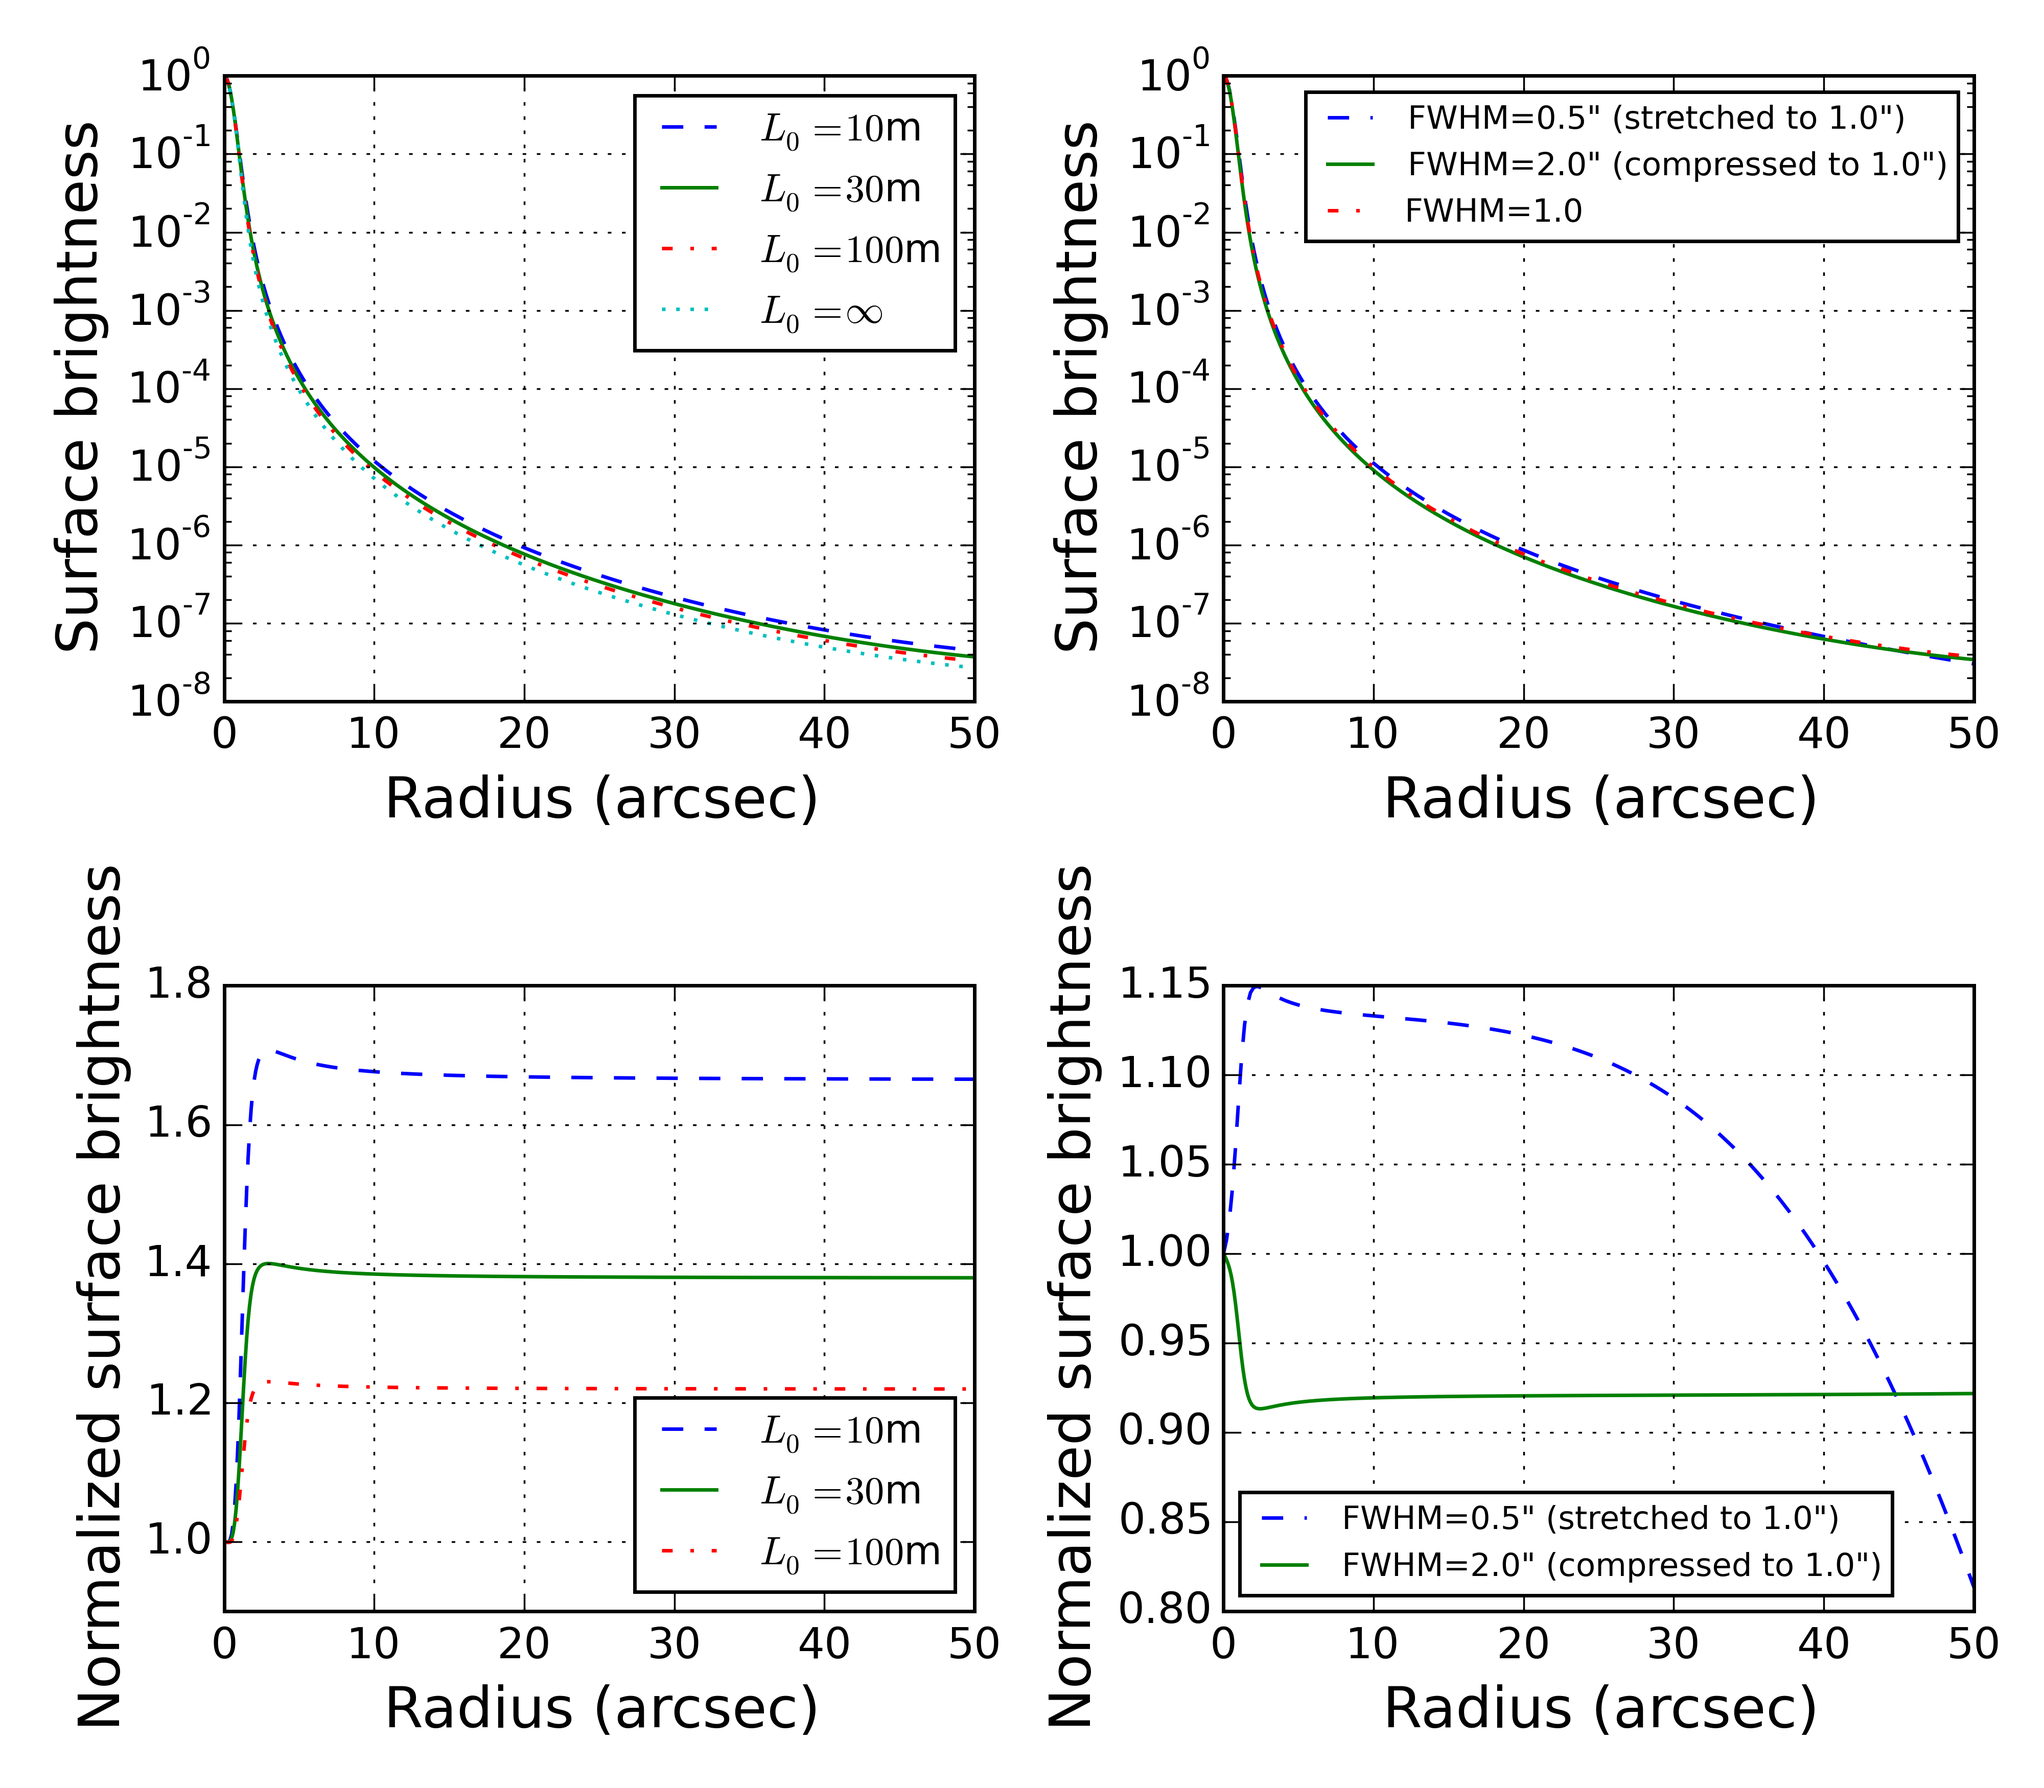
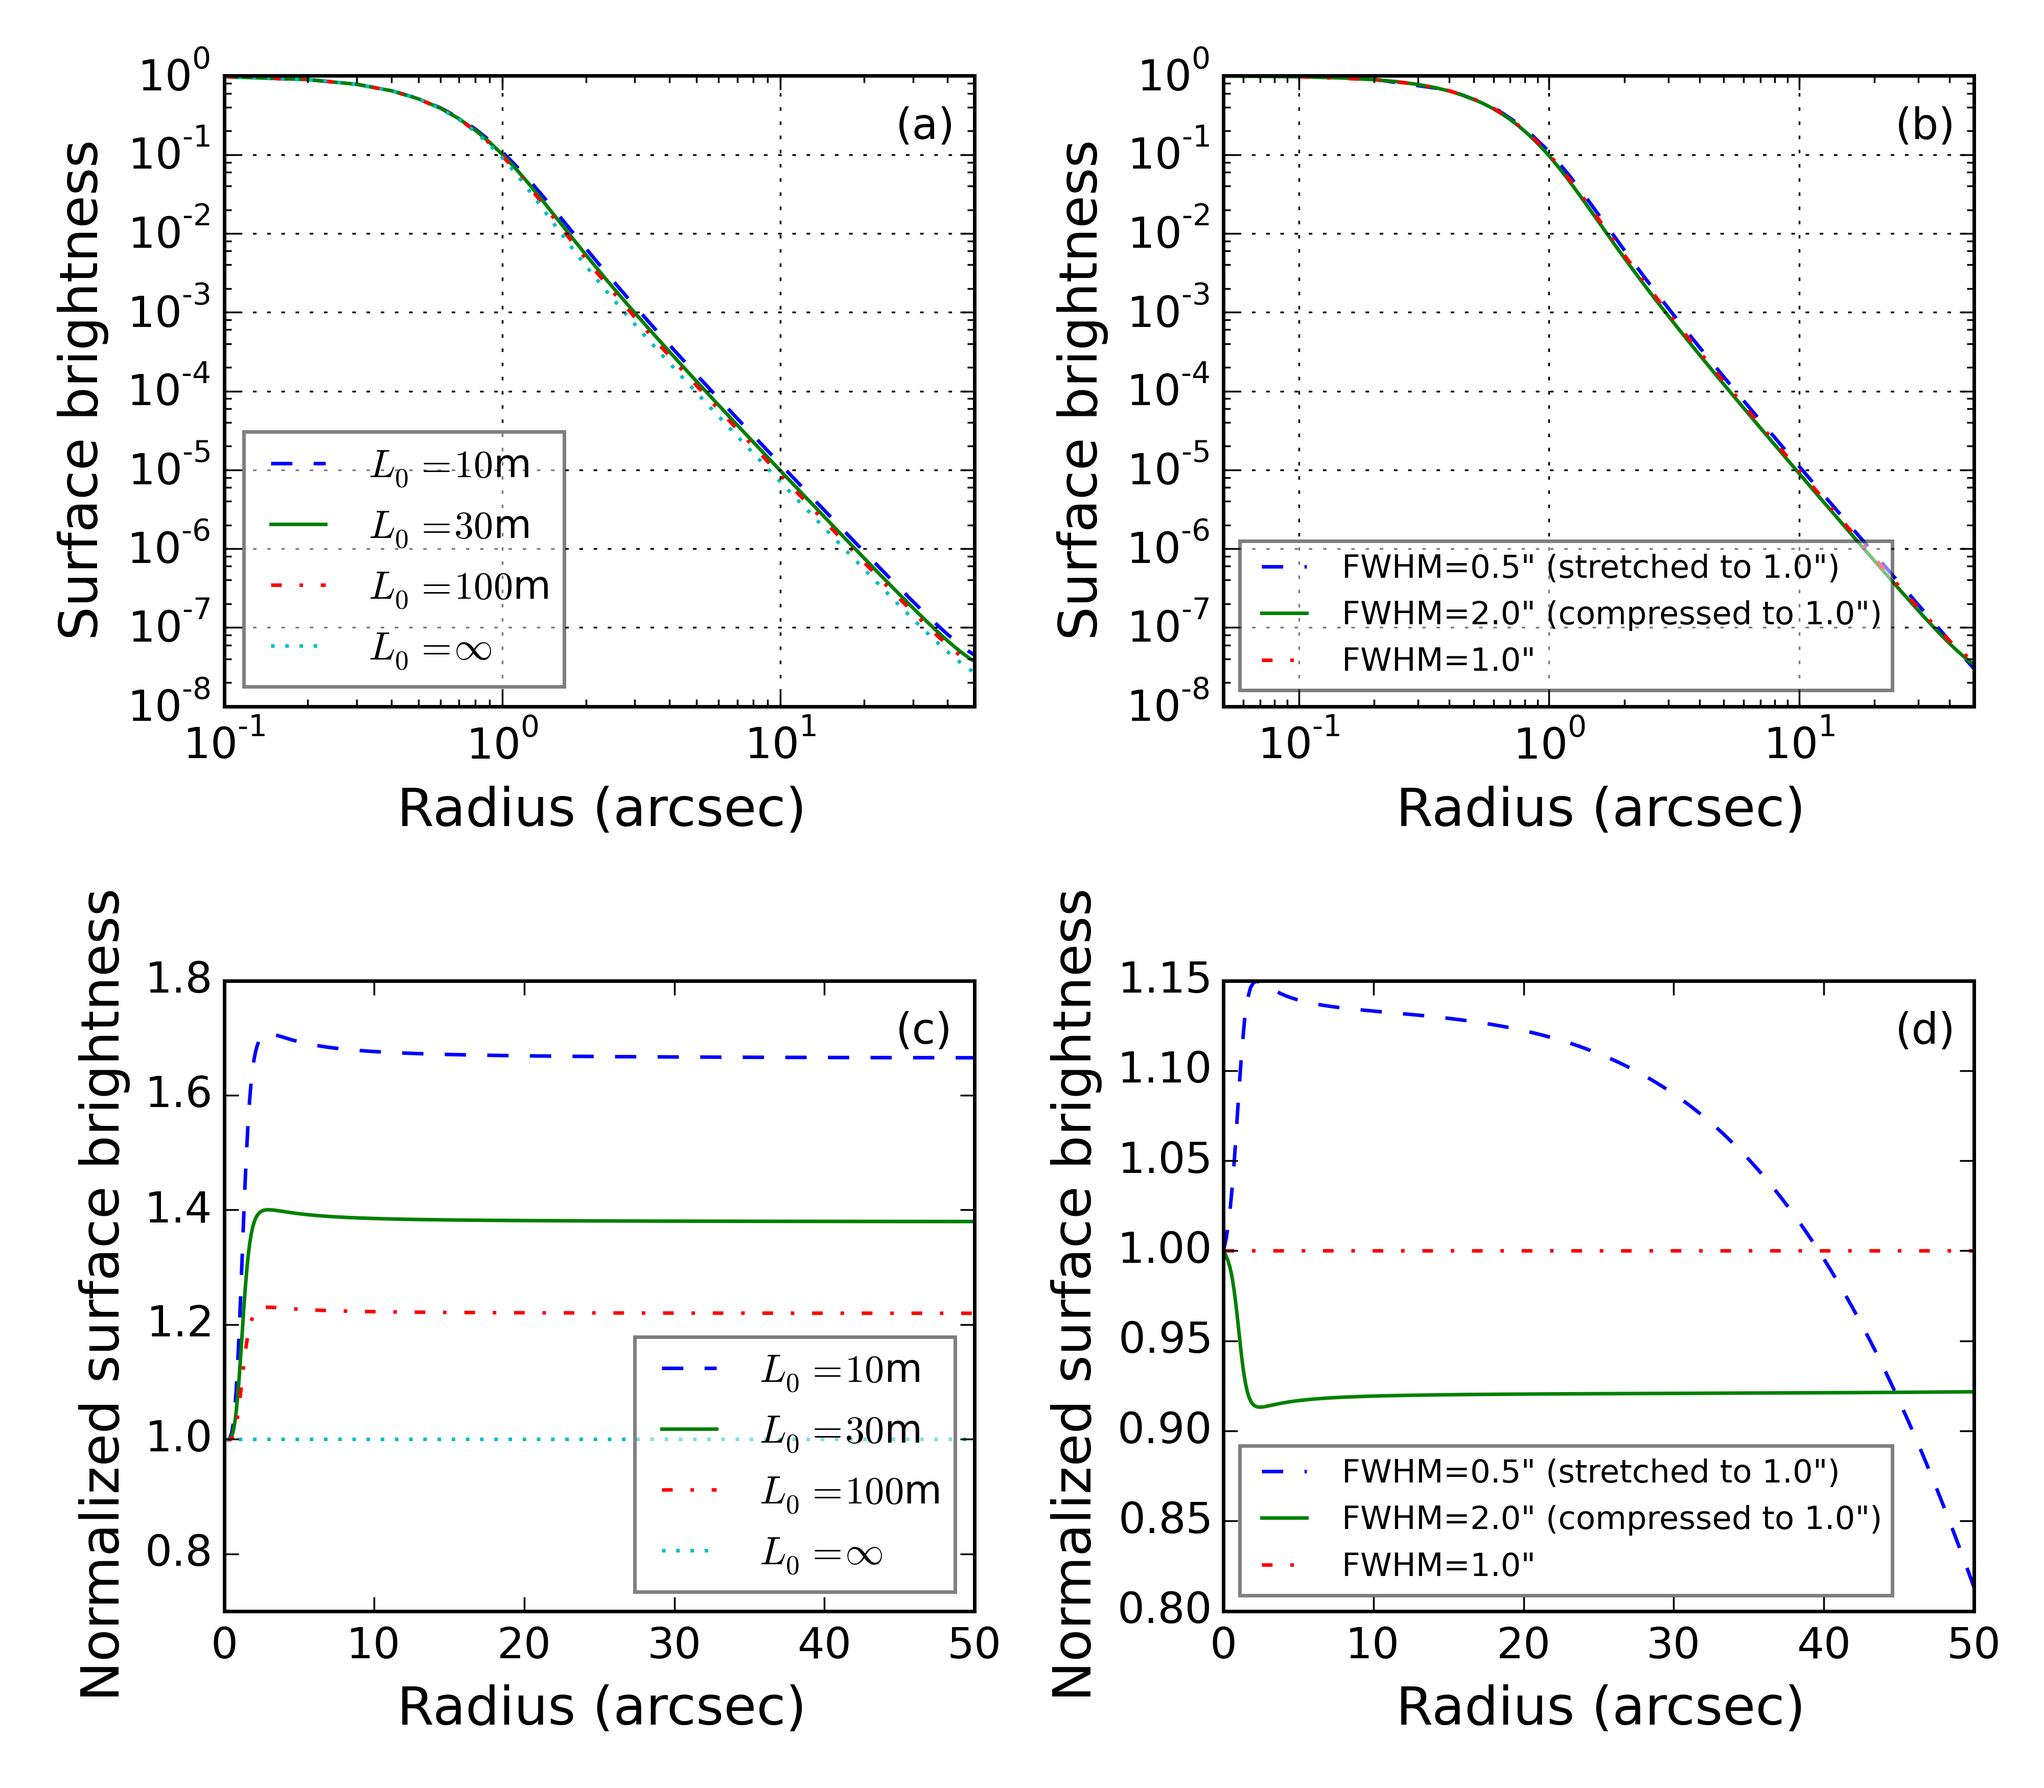
ready for JIRA

diff --git a/analysis/source/vonK_2x2.py b/analysis/source/vonK_2x2.py
@@ -1,0 +1,89 @@
+import numpy as np
+import matplotlib.pyplot as plt
+
+a30 = np.loadtxt('data/vonK1.0.txt')
+a10 = np.loadtxt('data/vonK1.0_10.txt')
+a100 = np.loadtxt('data/vonK1.0_100.txt')
+ainf = np.loadtxt('data/Kolm1.0.txt')
+
+x0 = int((a30.shape[0]-1)/2) #center slice
+x = np.arange(x0+1) * 0.1 #.1 arcsec per pixel
+r30 = a30[x0, x0:]
+r10 = a10[x0, x0:]
+r100 = a100[x0, x0:]
+rinf = ainf[x0, x0:]
+
+r30 = r30/np.max(r30)
+r10 = r10/np.max(r10)
+r100 = r100/np.max(r100)
+rinf = rinf/np.max(rinf)
+
+fig, ax1 = plt.subplots(2, 2, figsize=(8,7))
+
+ax1[0, 0].loglog(x, r10, '--', label=r'$L_0=10$m')
+ax1[0, 0].loglog(x, r30, '-',  label=r'$L_0=30$m')
+ax1[0, 0].loglog(x, r100, '-.', label=r'$L_0=100$m')
+ax1[0, 0].loglog(x, rinf, ':', label=r'$L_0=\infty$')
+
+ax1[0, 0].set_xlim(0, np.max(x))
+ax1[0, 0].grid()
+ax1[0, 0].set_xlabel('Radius (arcsec)', {'fontsize': 15})
+ax1[0, 0].set_ylabel('Surface brightness', {'fontsize': 15})
+leg = ax1[0, 0].legend(loc="lower left", fontsize=11)
+leg.get_frame().set_alpha(0.5)
+ax1[0, 0].text(0.9, 0.9, '(a)', transform=ax1[0, 0].transAxes)
+
+ax1[1, 0].plot(x, r10/rinf, '--', label=r'$L_0=10$m')
+ax1[1, 0].plot(x, r30/rinf, '-',  label=r'$L_0=30$m')
+ax1[1, 0].plot(x, r100/rinf, '-.', label=r'$L_0=100$m')
+ax1[1, 0].plot(x, rinf/rinf, ':', label=r'$L_0=\infty$')
+#ax1[1, 0].grid()
+ax1[1, 0].set_xlabel('Radius (arcsec)', {'fontsize': 15})
+ax1[1, 0].set_ylabel('Normalized surface brightness', {'fontsize': 15})
+leg = ax1[1, 0].legend(loc="lower right", fontsize=11)
+leg.get_frame().set_alpha(0.5)
+ax1[1, 0].text(0.9, 0.9, '(c)', transform=ax1[1, 0].transAxes)
+ax1[1, 0].set_ylim(0.7, 1.8)
+
+## right panel.
+b03  = np.loadtxt('data/vonK0.5.txt')
+b20  = np.loadtxt('data/vonK2.0.txt')
+x2 = int((b20.shape[0]-1)/2) #center slice
+# r10 means FWHM=1.0.
+r10 = r30 #on left panel, r30 used to mean FWHM=1.0, L0=30m
+r20 = b20[x2, x2:]
+r03 = b03[x0, x0:]
+r20 = r20/np.max(r20)
+r03 = r03/np.max(r03)
+
+x2 = np.arange(x2+1) * 0.1 #.1 arcsec per pixel #x2 used to be a number, now a vector
+ax1[0, 1].loglog(x/0.5, r03, '--', label='FWHM=0.5" (stretched to 1.0")')
+ax1[0, 1].loglog(x2/2.0, r20, '-', label='FWHM=2.0" (compressed to 1.0")')
+ax1[0, 1].loglog(x, r10, '-.',  label='FWHM=1.0" ')
+
+ax1[0, 1].set_xlim(0, np.max(x))
+ax1[0, 1].set_ylim(1e-8,1)
+ax1[0, 1].grid()
+ax1[0, 1].set_xlabel('Radius (arcsec)', {'fontsize': 15})
+ax1[0, 1].set_ylabel('Surface brightness', {'fontsize': 15})
+leg = ax1[0, 1].legend(loc="lower left", fontsize=9)
+leg.get_frame().set_alpha(0.5)
+ax1[0, 1].text(0.9, 0.9, '(b)', transform=ax1[0, 1].transAxes)
+
+idx = np.arange(0,x0+1,2)
+x01 = int(x0/2+1)
+ax1[1, 1].plot(x[:x01]/0.5, r03[:x01]/r10[idx], '--', label='FWHM=0.5" (stretched to 1.0")')
+idx = np.arange(0,x0*2+1,2)
+ax1[1, 1].plot(x, r20[idx]/r10, '-', label='FWHM=2.0" (compressed to 1.0")')
+ax1[1, 1].plot(x, r10/r10,'-.',  label='FWHM=1.0" ')
+#ax1[1, 1].grid()
+ax1[1, 1].set_xlabel('Radius (arcsec)', {'fontsize': 15})
+ax1[1, 1].set_ylabel('Normalized surface brightness', {'fontsize': 15})
+leg = ax1[1, 1].legend(loc="lower left", fontsize=9)
+leg.get_frame().set_alpha(0.5)
+ax1[1, 1].text(0.9, 0.9, '(d)', transform=ax1[1, 1].transAxes)
+
+## for both panels.
+plt.tight_layout()
+# plt.show()
+plt.savefig('output/vonK_2x2.png', dpi=500)

diff --git a/PSFprofile.tex b/PSFprofile.tex
@@ -12,13 +12,14 @@ The seeing profile predicted by the \vk~atmosphere model is a two-parameter
 family that can be parametrized by the FWHM and the so-called outer scale
 parameter. The Kolmogorov seeing profile is a special case of the 
 \vk~seeing with the infinitely large outer scale. The radial profiles of the 
-\vk~PSF with a few different values of outer scale are shown in Fig.~\ref{fig:vonK} (left). 
-
+\vk~PSF with a few different values of outer scale are shown in Fig.~\ref{fig:vonK} (a). 
+In Fig.~\ref{fig:vonK} (c), the profiles with finite outer scales
+($L_0$) are normalized to the Kolmogorov profile.
 
 Our fitting of each PSF radial profile is a 2-step process. First we fit the
 measured PSF profile to a \vk~PSF with only one free parameter -
 the FWHM of the \vk~profile, while a fiducial outer scale of 30 meters
-is assumed fixed. As discernible from Fig.~\ref{fig:vonK}, the impact of the exact
+is assumed fixed. As discernible from Fig.~\ref{fig:vonK} (a) and (c), the impact of the exact
 value of $L_0$ on the profile shape is small. A fixed value of $L_0$ induces a small 
 systematic uncertainty in the normalization of the contribution of instrumental PSF, 
 discussed in \S~\ref{sec:instrPSF}  below. The \vk~PSF profile is generated by creating 
@@ -34,11 +35,13 @@ Instead, we opted to generate a single \vk~PSF template with the FWHM of
 1.0 arcsec. In our one-parameter \vk~fit, we only stretch or compress
 the template radially to get the best match with the data, in the
 least-square sense.
-Fig.~\ref{fig:vonK} (right) shows a comparison of three PSF profiles,
+Fig.~\ref{fig:vonK} (b) shows a comparison of three PSF profiles,
 one generated with FWHM of 1.0 arcsec, the other two generated with
 FWHM of 0.5 and 2.0 arcsec, respectively, then stretched and
 compressed to 1.0 arcsec. The three curves are seen to be almost
 indistinguishable.
+Fig.~\ref{fig:vonK} (d) shows the same three profiles when normalized
+to the one generated with FWHM of 1.0 arcsec.
 
 \begin{figure}[ht]
 \centering

diff --git a/FWHManalysis.tex b/FWHManalysis.tex
@@ -233,13 +233,28 @@ for run 4874. Making the same fits for all the 108 runs in Stripe 82, we obtaine
 $\beta$ distribution vs. the duration of each run shown in Fig.~\ref{fig:hist} (right).
 The shorter runs give $\beta$ values with a larger variance, but nevertheless it is 
 clear that for most runs the high-frequency behavior can be described with a 
-power-law index in the range $-1.5$ to $-1.0$. On the other hand, a single 
+power-law index in the range $-1.5$ to $-1.0$. 
+We note that \cite{2016SPIE.9906E..42S} measured steeper slopes,
+though at much higher frequencies.
+On the other hand, a single 
 power law cannot explain the turnover at low frequencies. 
 
 Therefore, neither model provides a satifactory fit over the entire frequency range: 
 the power law fit systematically over predicts the low-frequency part of the PSD,
 while the $1/f^2$ high-frequency behavior of damped random walk model is too 
-steep. It is likely that a hybrid model would work, but we leave detailed analysis,
+steep. It is likely that a hybrid model would work, for example, a simple
+generalization of the random walk model
+(see Eq. (19) in \cite{Dunkley2005}), 
+\begin{equation}
+\textrm{PSD}(f) = \frac{\tau^\alpha SF^2_{\infty}}{1+(2\pi f
+  \tau)^\alpha}.
+\label{eq:hybrid}
+\end{equation}
+Performing fits to our data using this model did not yield useful
+results on the characteristic timescale, due to our lack of data
+points at low frequency, and therefore the incapability in
+constraining one additional parameter ($\alpha$ in Eq.~(\ref{eq:hybrid})).
+We leave more detailed analysis,
 perhaps informed by the PhoSim modeling, for future work. 
 
 
